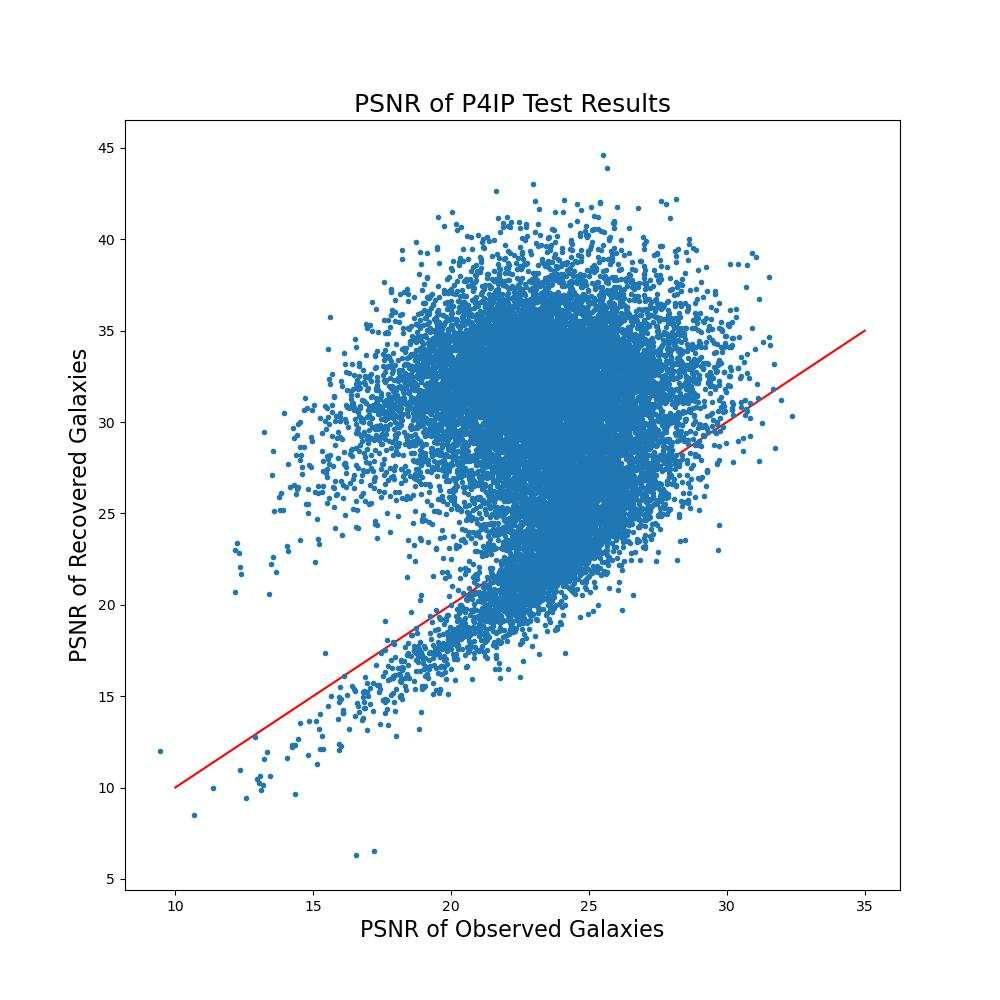
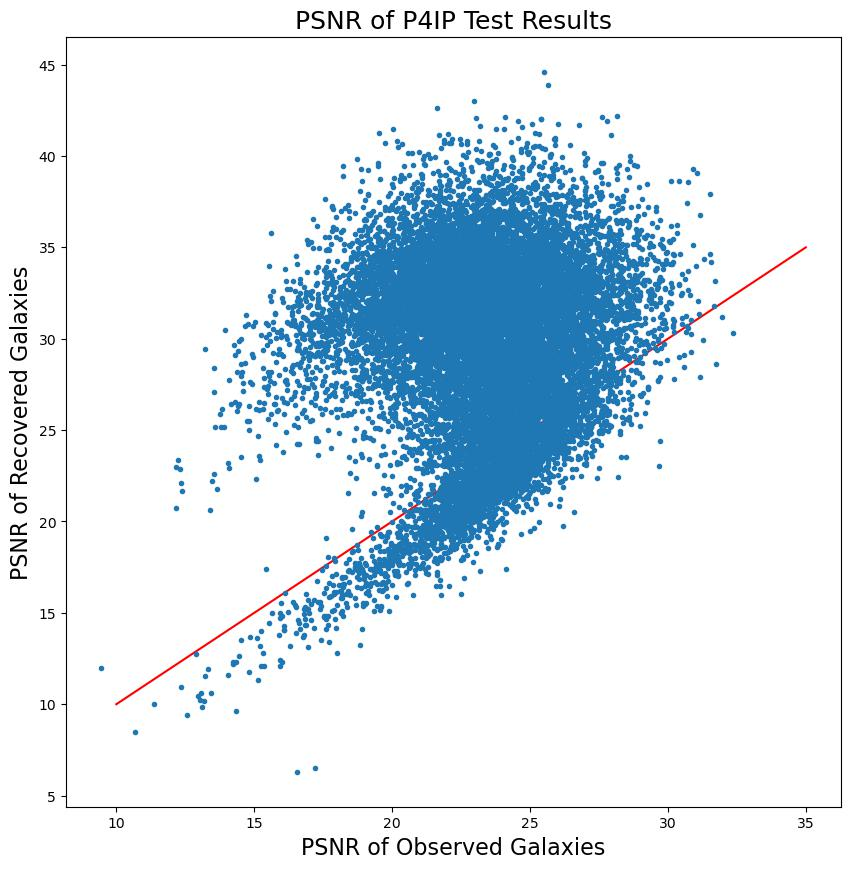
update test results

diff --git a/test.py b/test.py
@@ -95,12 +95,12 @@ def test_p4ip(n_iters=8, result_path='./results/p4ip/', model_path='./saved_mode
     obs_psnr = results['obs_psnr']
     rec_psnr = results['rec_psnr']
     plt.figure(figsize=(10,10))
-    plt.plot([10,35],[10,35],'r')
+    plt.plot([10,35],[10,35],'r') # plt y=x line
     plt.plot(obs_psnr, rec_psnr, '.')
     plt.title('PSNR of P4IP Test Results', fontsize=18)
     plt.xlabel('PSNR of Observed Galaxies', fontsize=16)
     plt.ylabel('PSNR of Recovered Galaxies', fontsize=16)
-    plt.savefig(os.path.join(result_path, 'p4ip_psnr.jpg'))
+    plt.savefig(os.path.join(result_path, 'p4ip_psnr.jpg'), bbox_inches='tight')
     plt.close()
 
     return results
